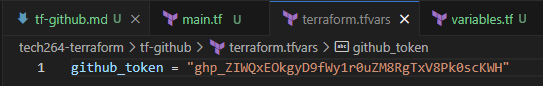
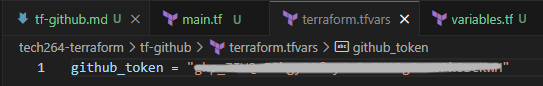
Hidden credentials.

Changed region(s): [[0.3536, 0.7209, 0.9429, 0.8605]]

diff --git a/terraform.md b/terraform.md
@@ -152,7 +152,7 @@ AWS credentials allow Terraform to `authenticate and interact with AWS resources
 * **Environment Variables**: Set AWS credentials using environment variables (AWS_ACCESS_KEY_ID and AWS_SECRET_ACCESS_KEY), but avoid hardcoding them in scripts or configuration files.
   * For local development. 
 
-* **AWS CLI or SDK credentials file**: Use the `~/.aws/`credentials file, which stores AWS credentials locally in a secure way.
+* **AWS CLI or SDK credentials file**: Use the `~/.aws/` credentials file, which stores AWS credentials locally in a secure way.
 
 * **Credential helper programs**: Use AWS Single Sign-On (SSO) or AWS Vault to manage and inject credentials securely.
 
@@ -478,3 +478,6 @@ There’s no definitive "better" model — it depends on the use case.
 > If you need ongoing, regular configuration updates, **pull** tools might be a better fit.
 > 
 > If you need to set up infrastructure or apply changes instantly, **push** tools are often more efficient. 
+
+<br>
+

diff --git a/tf-github/tf-github.md b/tf-github/tf-github.md
@@ -49,8 +49,7 @@ Steps to Create a Personal Access Token:
 
 ![alt text](../terraform-images/generate-token.png)
 
-* Make sure you copy the link as you won't see it again: 
-    `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`
+* Make sure you copy the link as you won't see it again. 
 
 ![alt text](../terraform-images/token-code.png)
 <br>
